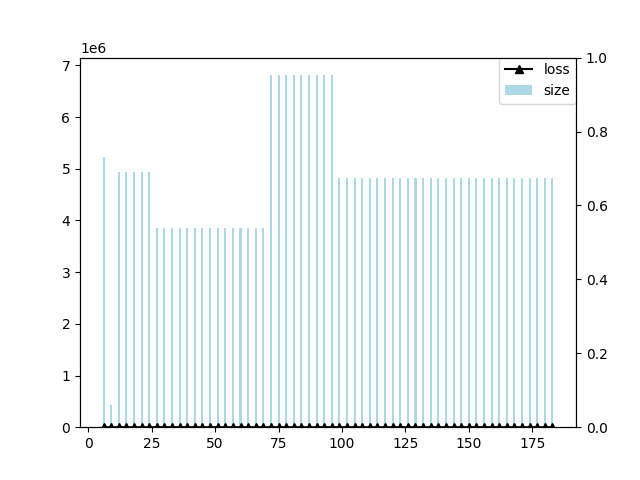
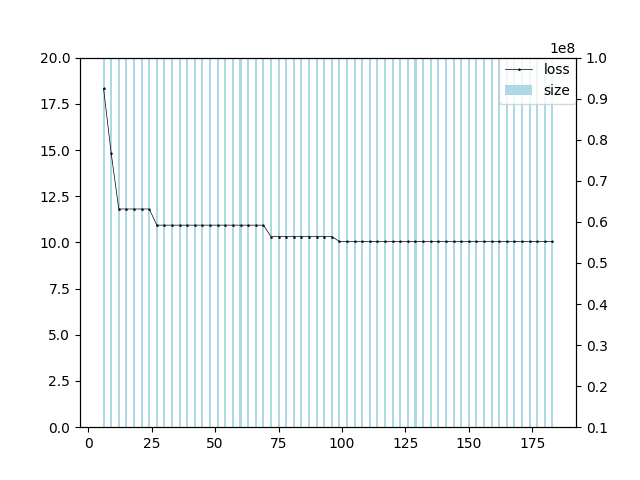
とりあえずかいていくお

diff --git a/analytics/analytics_main.py b/analytics/analytics_main.py
@@ -14,12 +14,10 @@ class Analytics:
         fig_cgp = plt.figure(figsize=(10,8))
         fig_cgp, ax1 = plt.subplots(1,1)
         ax2 = ax1.twinx()
-        ax1.plot(df["num_eval"],df["evaluation"],linestyle="solid",color="k",marker="^",label="loss")
+        ax1.plot(df["num_eval"],df["evaluation"],linestyle="solid",lw=0.5,ms=1,color="k",marker="^",label="loss")
         ax1.bar(df["num_eval"],df["size"],color="lightblue",label="size")
-        #ax1.set_ylim(0,10)
-        #ax2.set_ylim(100,110)
-        ax1.ylabel("loss")
-        ax2.ylabel("size")
+        ax1.set_ylim(0,20)
+        ax2.set_ylim(10000000,100000000)
         handler1, label1 = ax1.get_legend_handles_labels()
         handler2, label2 = ax2.get_legend_handles_labels()
         ax1.legend(handler1+handler2,label1+label2,borderaxespad=0)
